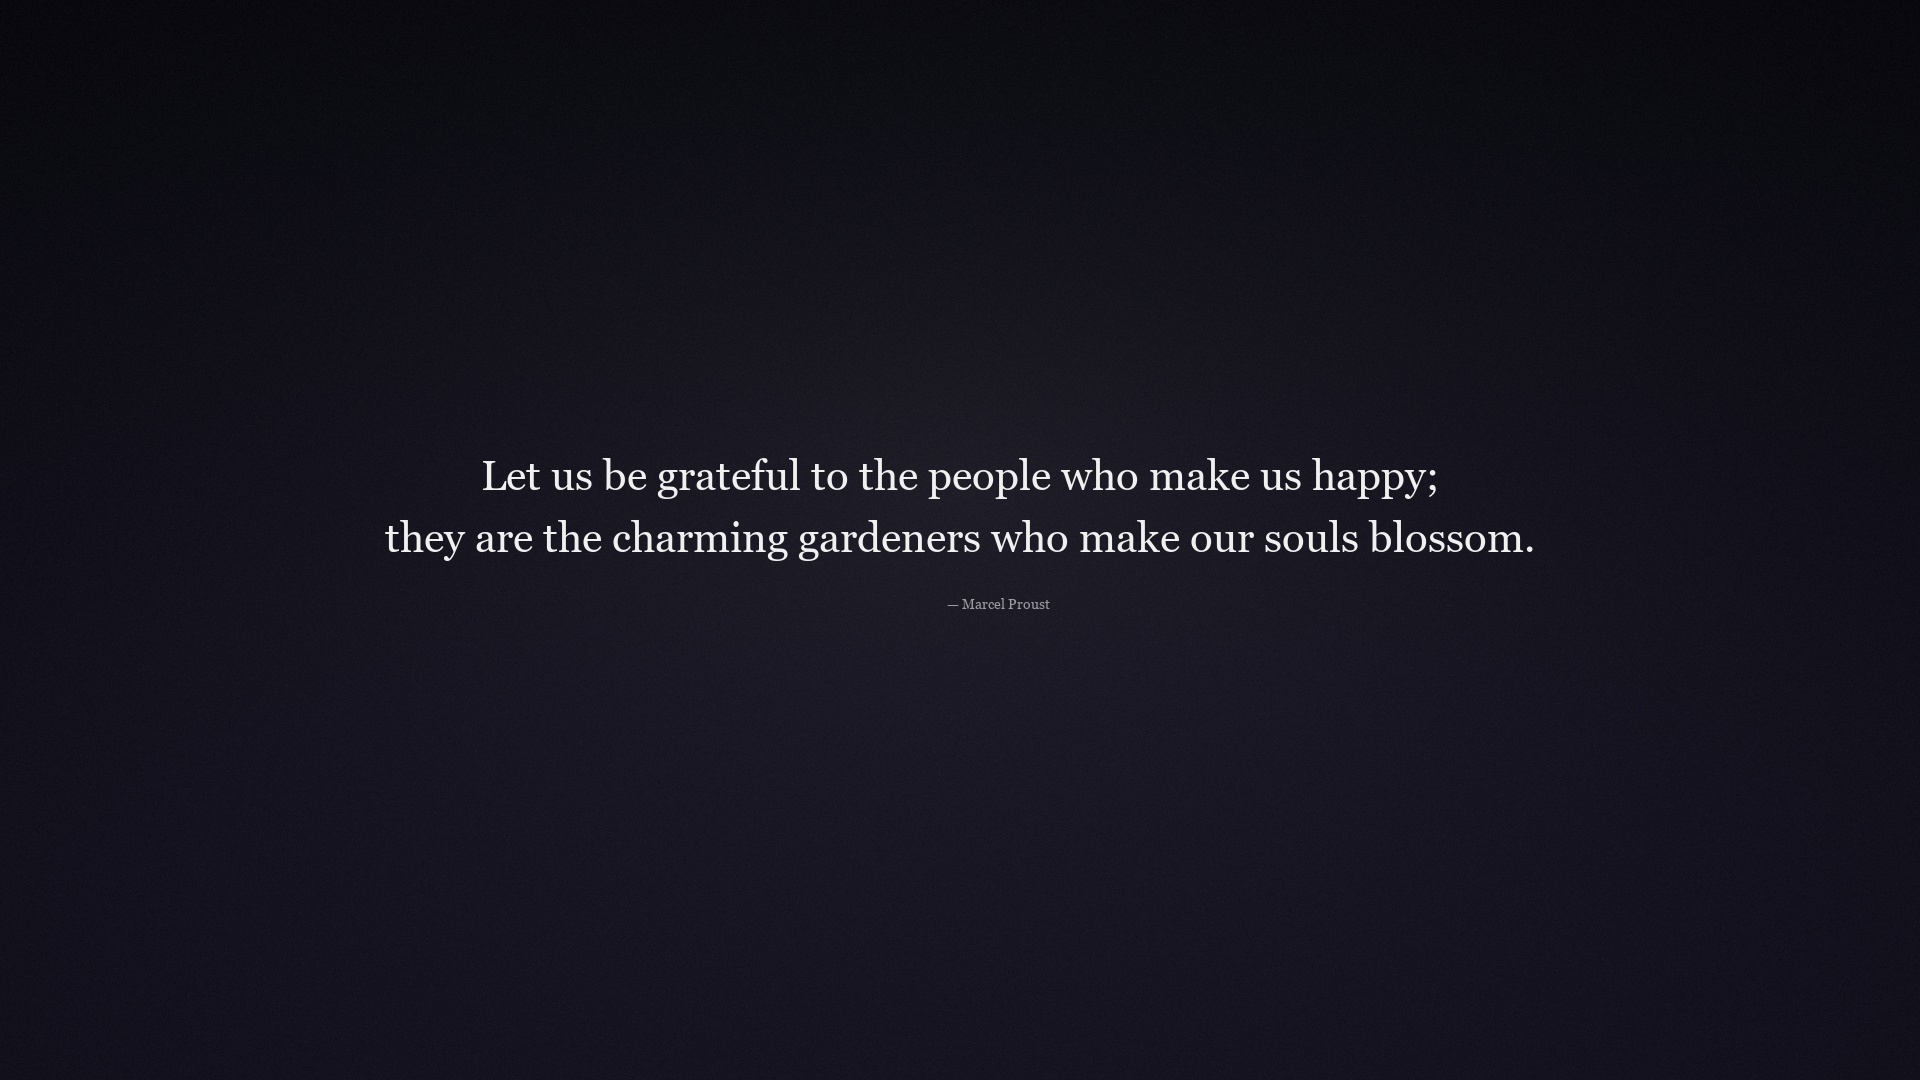
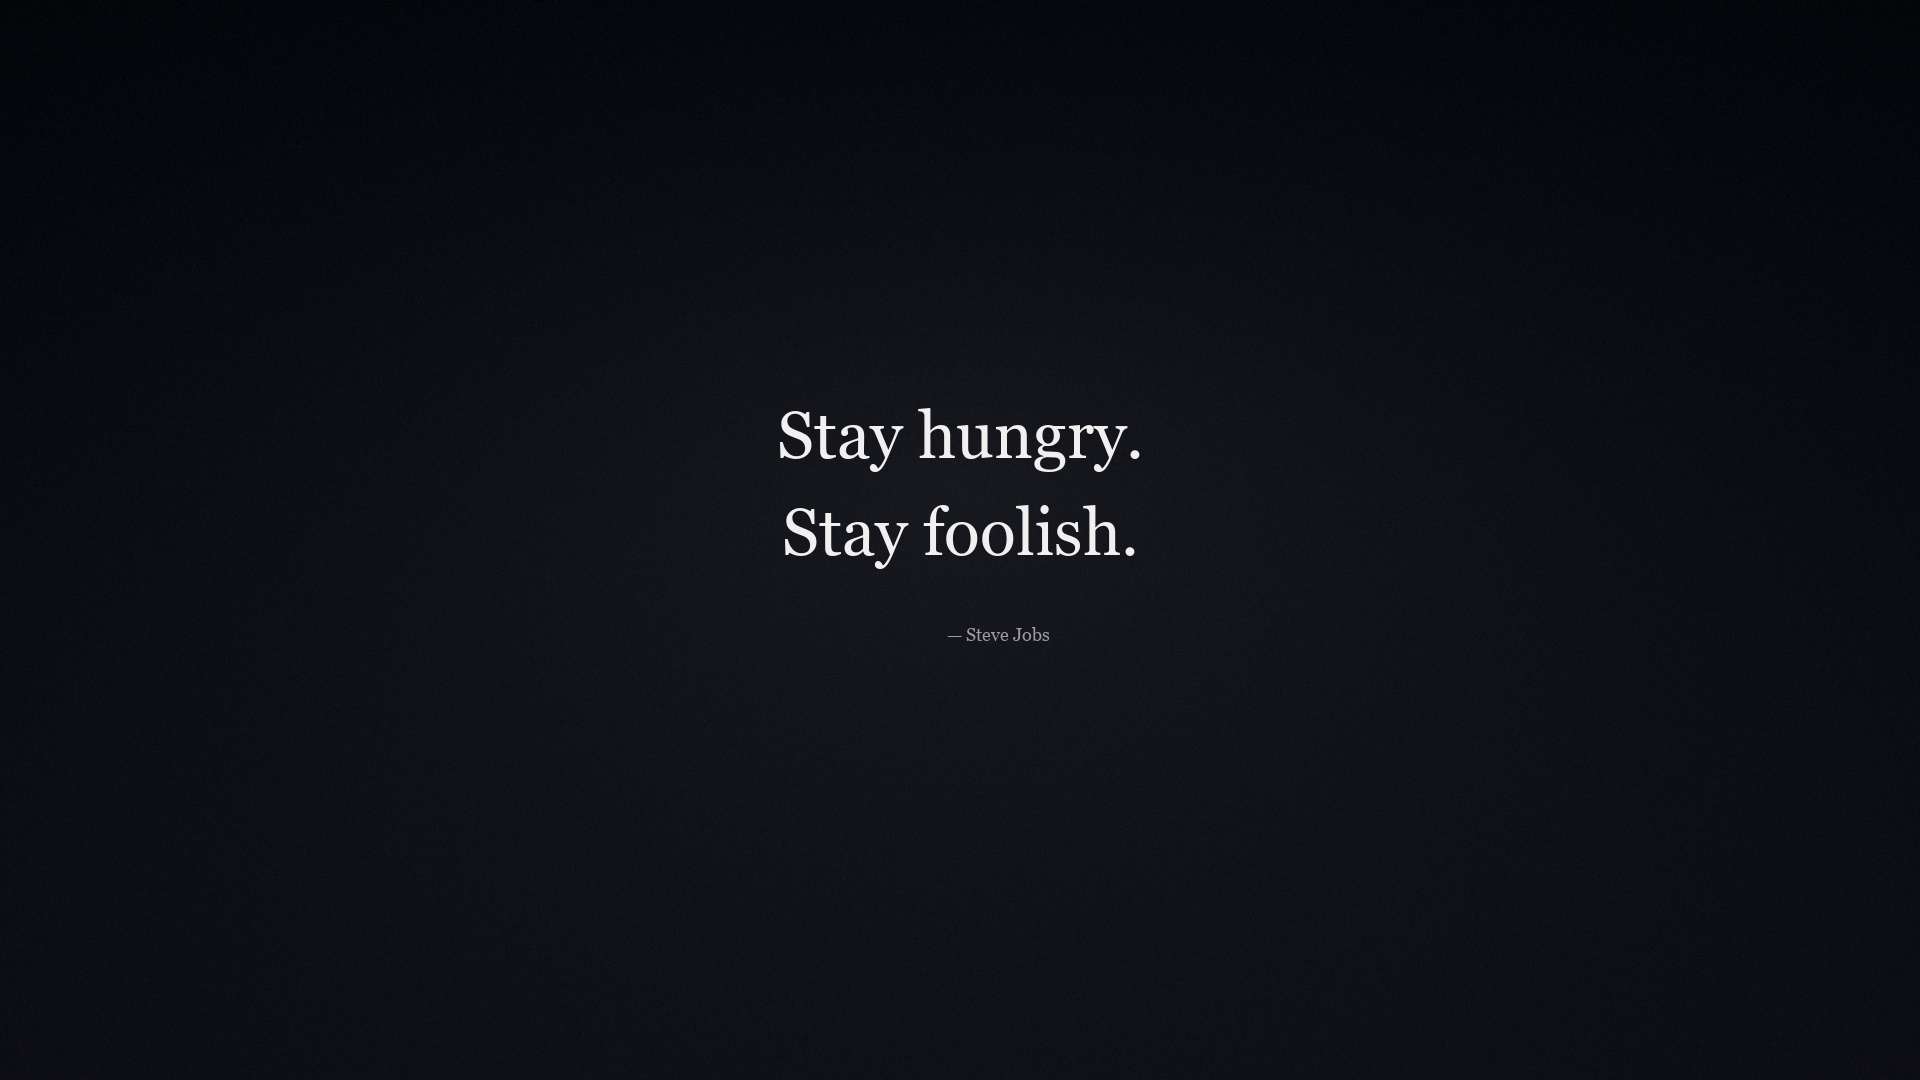
Add auto style selection, short quote boost, author comparison, adaptive vertical offset, quote ID in filenames

Changed region(s): [[0.1875, 0.3667, 0.8125, 0.5194], [0.5, 0.55, 0.5312, 0.6111]]

diff --git a/src/wallpaper_generator.py b/src/wallpaper_generator.py
@@ -45,24 +45,30 @@ FONTS_JP = [
     "C:/Windows/Fonts/msgothic.ttc",
 ]
 
+# Categories considered philosophical / reflective for serif auto-selection
+REFLECTIVE_CATEGORIES = {"reflection", "gratitude", "rest"}
+
 # Style presets for variant generation
 STYLE_PRESETS: dict[str, dict[str, Any]] = {
     "refined": {
         "font_candidates": FONTS_LIGHT,
         "font_author_candidates": FONTS_REGULAR,
         "size_scale": 1.0,
+        "author_color": (145, 145, 150),
         "description": "Clean sans-serif light",
     },
     "larger": {
         "font_candidates": FONTS_LIGHT,
         "font_author_candidates": FONTS_REGULAR,
         "size_scale": 1.15,
+        "author_color": (140, 140, 145),
         "description": "Larger sans-serif light",
     },
     "serif": {
         "font_candidates": FONTS_SERIF,
         "font_author_candidates": FONTS_SERIF,
         "size_scale": 0.85,
+        "author_color": (140, 140, 145),
         "description": "Classic serif",
     },
 }
@@ -102,6 +108,38 @@ def _has_cjk(text: str) -> bool:
                 0x30A0 <= cp <= 0x30FF or 0xFF00 <= cp <= 0xFFEF):
             return True
     return False
+
+
+# ---------------------------------------------------------------------------
+# Auto style selection
+# ---------------------------------------------------------------------------
+
+def select_best_style(quote: dict[str, Any]) -> str:
+    """Auto-select the best style preset based on quote characteristics.
+
+    Rules:
+    - Short quotes (1-2 semantic lines, <=50 chars): "larger"
+    - Philosophical/reflective categories: "serif"
+    - Everything else: "refined"
+    """
+    text = quote["text"]
+    categories = set(quote.get("category", []))
+    length = len(text)
+    semantic_lines = _semantic_split(text)
+    line_count = len(semantic_lines)
+
+    # Short quotes: use larger for more impact
+    if line_count <= 2 and length <= 50:
+        logger.info("Auto-style: 'larger' (short quote, %d chars, %d lines)", length, line_count)
+        return "larger"
+
+    # Philosophical / reflective: serif gives gravitas
+    if categories & REFLECTIVE_CATEGORIES:
+        logger.info("Auto-style: 'serif' (reflective categories: %s)", categories & REFLECTIVE_CATEGORIES)
+        return "serif"
+
+    logger.info("Auto-style: 'refined' (default)")
+    return "refined"
 
 
 # ---------------------------------------------------------------------------
@@ -186,8 +224,6 @@ def _semantic_split(text: str) -> list[str]:
 
     Returns candidate line groups. Falls back to the full text if no split found.
     """
-    # Pattern: split at ". " or "; " or " — " or " – " or " - " (when used as separator)
-    # but keep the delimiter with the preceding segment
     parts = re.split(r'(?<=[.!?;])\s+|(?<=\.\")\s+', text)
     parts = [p.strip() for p in parts if p.strip()]
     if len(parts) >= 2:
@@ -257,7 +293,10 @@ def _compute_font_size(
     config: dict[str, Any],
     style_scale: float = 1.0,
 ) -> int:
-    """Compute font size — 15-30% larger than v1, config-overridable."""
+    """Compute font size with short-quote boost.
+
+    Short quotes (<=30 chars) get an extra 10-15% boost on top of the base size.
+    """
     length = len(text)
     if length <= 25:
         base = 88
@@ -272,6 +311,12 @@ def _compute_font_size(
     else:
         base = 44
 
+    # Short quote boost: extra 10-15% for very short text
+    if length <= 20:
+        base = int(base * 1.15)
+    elif length <= 30:
+        base = int(base * 1.10)
+
     # Config override
     override = config.get("quote_font_size")
     if override:
@@ -279,6 +324,34 @@ def _compute_font_size(
 
     scale = min(width / 1920, height / 1080) * style_scale
     return max(int(base * scale), 24)
+
+
+# ---------------------------------------------------------------------------
+# Vertical offset by quote type
+# ---------------------------------------------------------------------------
+
+def _compute_vertical_offset(
+    text: str,
+    line_count: int,
+    config: dict[str, Any],
+) -> float:
+    """Compute vertical offset based on quote length and line count.
+
+    - Short quotes (1-2 lines): slightly above center (-0.03)
+    - Medium quotes (3 lines): near center (-0.01)
+    - Long quotes (4+ lines): true center (0.0)
+    """
+    config_offset = config.get("vertical_offset")
+    if config_offset is not None:
+        return config_offset
+
+    length = len(text)
+    if line_count <= 2 and length <= 50:
+        return -0.03
+    elif line_count <= 3:
+        return -0.015
+    else:
+        return 0.0
 
 
 # ---------------------------------------------------------------------------
@@ -291,12 +364,15 @@ def generate_wallpaper(
     base_dir: Path,
     output_suffix: str = "",
     style_preset: str | None = None,
+    author_size_ratio_override: float | None = None,
 ) -> Path:
     """Generate wallpaper image and return the output path.
 
     Args:
         output_suffix: appended before extension (e.g. "_v2" -> wallpaper_today_v2.jpg)
-        style_preset: one of "refined", "larger", "serif" for variant generation
+        style_preset: one of "refined", "larger", "serif" for variant generation.
+                      If None, auto-selects based on quote characteristics.
+        author_size_ratio_override: override author size ratio for comparison.
     """
     width = config.get("wallpaper_width", 1920)
     height = config.get("wallpaper_height", 1080)
@@ -310,8 +386,10 @@ def generate_wallpaper(
     output_path = base_dir / output_rel
     output_path.parent.mkdir(parents=True, exist_ok=True)
 
-    # Resolve style preset
-    preset = STYLE_PRESETS.get(style_preset or "refined", STYLE_PRESETS["refined"])
+    # Resolve style preset — auto-select if not specified
+    if style_preset is None:
+        style_preset = select_best_style(quote)
+    preset = STYLE_PRESETS.get(style_preset, STYLE_PRESETS["refined"])
     size_scale = preset["size_scale"]
 
     # Background
@@ -342,7 +420,7 @@ def generate_wallpaper(
 
     # Font sizing
     quote_font_size = _compute_font_size(text, width, height, config, size_scale)
-    author_ratio = config.get("author_size_ratio", 0.28)
+    author_ratio = author_size_ratio_override or config.get("author_size_ratio", 0.26)
     author_font_size = max(int(quote_font_size * author_ratio), 14)
 
     font_quote_path = config.get("font_quote")
@@ -393,19 +471,14 @@ def generate_wallpaper(
     if show_translated:
         total_height += int(author_font_size * 1.8)
 
-    # Vertical centering with configurable offset
-    # Shift slightly above center for large text blocks, center for smaller ones
-    vertical_offset = config.get("vertical_offset", -0.02)
-    fill_ratio = total_height / height
-    if fill_ratio < 0.15:
-        # Small text block: keep closer to true center
-        vertical_offset = min(vertical_offset + 0.01, 0.0)
+    # Vertical offset — adaptive by quote type
+    vertical_offset = _compute_vertical_offset(text, len(lines), config)
     start_y = int((height - total_height) / 2 + height * vertical_offset)
     start_y = max(start_y, int(height * 0.05))
 
     # Draw quote lines — centered
     text_color = (240, 240, 240)
-    author_color = (155, 155, 160)
+    author_color = preset.get("author_color", (145, 145, 150))
     y = start_y
 
     for i, line in enumerate(lines):
@@ -438,7 +511,7 @@ def generate_wallpaper(
 
     # Save
     img.save(str(output_path), "JPEG", quality=95)
-    logger.info("Wallpaper saved to %s (%s)", output_path, preset.get("description", ""))
+    logger.info("Wallpaper saved to %s (style=%s)", output_path, style_preset)
     return output_path
 
 
@@ -447,15 +520,43 @@ def generate_variants(
     config: dict[str, Any],
     base_dir: Path,
 ) -> list[Path]:
-    """Generate multiple style variants for preview comparison."""
+    """Generate multiple style variants for preview comparison.
+
+    Output filenames include quote ID: {quote_id}_v1_refined.jpg etc.
+    """
+    quote_id = quote.get("id", "unknown")
     variants = [
-        ("_v1_refined", "refined"),
-        ("_v2_larger", "larger"),
-        ("_v3_serif", "serif"),
+        (f"_{quote_id}_v1_refined", "refined"),
+        (f"_{quote_id}_v2_larger", "larger"),
+        (f"_{quote_id}_v3_serif", "serif"),
     ]
     paths: list[Path] = []
     for suffix, preset in variants:
-        path = generate_wallpaper(quote, config, base_dir, output_suffix=suffix, style_preset=preset)
+        path = generate_wallpaper(
+            quote, config, base_dir,
+            output_suffix=suffix, style_preset=preset,
+        )
         paths.append(path)
         logger.info("Variant '%s' saved: %s", preset, path)
+    return paths
+
+
+def generate_author_comparison(
+    quote: dict[str, Any],
+    config: dict[str, Any],
+    base_dir: Path,
+) -> list[Path]:
+    """Generate author size comparison variants (0.24 / 0.26 / 0.28)."""
+    quote_id = quote.get("id", "unknown")
+    ratios = [0.24, 0.26, 0.28]
+    paths: list[Path] = []
+    for ratio in ratios:
+        suffix = f"_{quote_id}_author{int(ratio * 100)}"
+        path = generate_wallpaper(
+            quote, config, base_dir,
+            output_suffix=suffix,
+            author_size_ratio_override=ratio,
+        )
+        paths.append(path)
+        logger.info("Author ratio %.2f saved: %s", ratio, path)
     return paths

diff --git a/main.py b/main.py
@@ -46,6 +46,8 @@ def parse_args() -> argparse.Namespace:
                         help="Generate image file only, do not change wallpaper")
     parser.add_argument("--variants", action="store_true",
                         help="Generate v1/v2/v3 style variants for comparison")
+    parser.add_argument("--compare-author", action="store_true",
+                        help="Generate author size comparison (0.24/0.26/0.28)")
     return parser.parse_args()
 
 
@@ -56,7 +58,7 @@ def main() -> None:
     from src.config_loader import load_config, load_quotes
     from src.history_manager import load_history, save_history, add_entry
     from src.quote_selector import select_quote
-    from src.wallpaper_generator import generate_wallpaper, generate_variants
+    from src.wallpaper_generator import generate_wallpaper, generate_variants, generate_author_comparison, select_best_style
     from src.wallpaper_setter import set_wallpaper
     from src.utils import get_current_season
 
@@ -98,9 +100,17 @@ def main() -> None:
             variant_paths = generate_variants(quote, config, BASE_DIR)
             for vp in variant_paths:
                 print(f"Variant saved: {vp}")
-            output_path = variant_paths[0]  # use refined as primary
+            output_path = variant_paths[0]
+        elif args.compare_author:
+            variant_paths = generate_author_comparison(quote, config, BASE_DIR)
+            for vp in variant_paths:
+                print(f"Author comparison: {vp}")
+            output_path = variant_paths[1]  # 0.26 as default
         else:
+            # Auto-select best style based on quote characteristics
+            best_style = select_best_style(quote)
             output_path = generate_wallpaper(quote, config, BASE_DIR)
+            print(f"Auto-selected style: {best_style}")
         print(f"Wallpaper saved: {output_path}")
 
         # Set wallpaper
